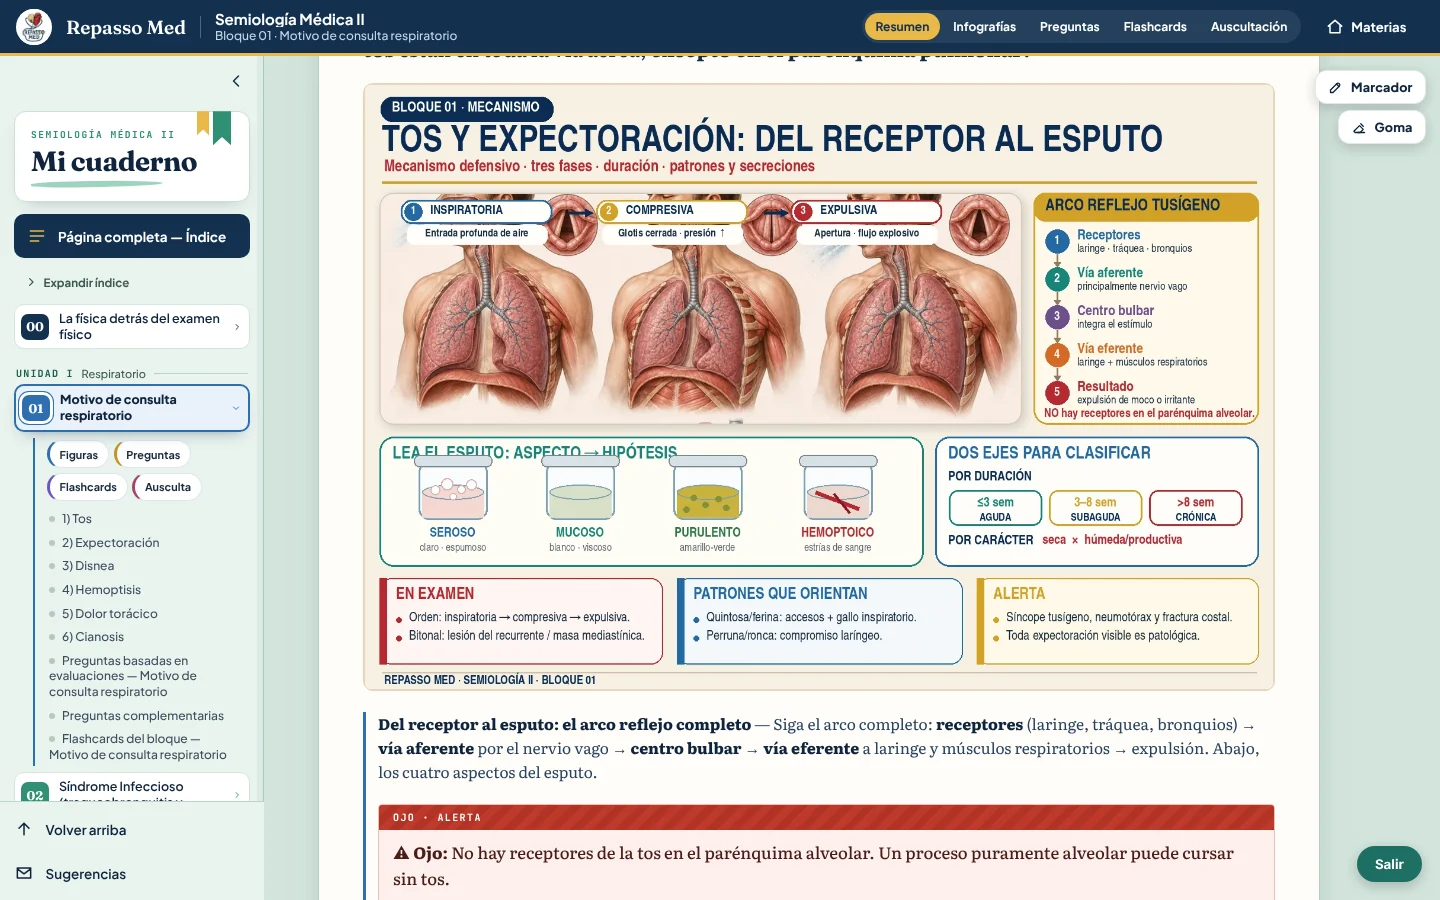
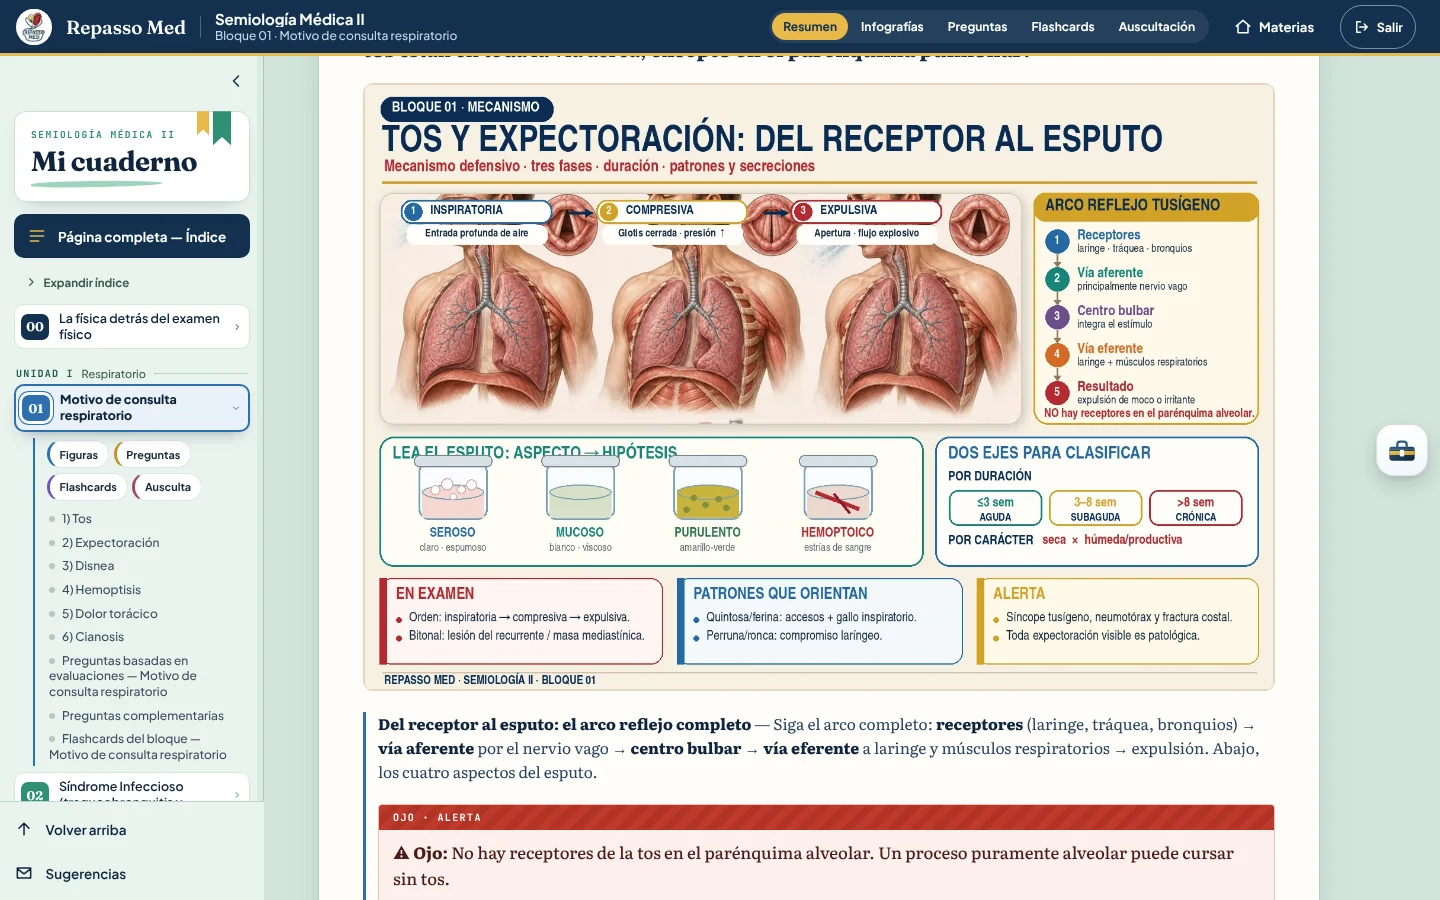
fix(semiologia-ii): «Sair» deixa de cobrir a leitura no piloto (vai para a faixa fixa)
- o botão flutuante verde (#logout-fab) fica oculto só com o tema ligado; o mesmo controle vive na faixa fixa (alvo ≥ 44 px, só ícone < 480 px) e delega o clique ao original
- espaço reservado ao fim da leitura; sem mudança fora do piloto
- testes: sistema.test.cjs 91 (§9–10: 320/390/768/1440, rolagem real, gaveta, caneta armada); capturas celular 390/320 + antes/depois
- docs: ativação = RM_PILOT_VISUAL_UIDS no Netlify, após o merge

Claude-Session: https://claude.ai/code/session_01JLPWR64NLJn2bckj9LWwJP

diff --git a/Repasso-Med-Site--main/Atual - Copia/assets/rm-materia-sistema.js b/Repasso-Med-Site--main/Atual - Copia/assets/rm-materia-sistema.js
@@ -373,6 +373,19 @@
     });
     band.insertBefore(pills, chip || q1(band, '.rm-l2-mat'));
     S.pills = pills;
+    /* «Sair»: o botão flutuante do site (#logout-fab, canto inferior direito) cobria a leitura no celular. No piloto ele fica oculto (CSS) e o MESMO
+       controle passa a viver na faixa fixa: este botão só delega o clique ao original (o handler de logout do site não muda). */
+    var fab = document.getElementById('logout-fab');
+    if (fab) {
+      var out = ui('button', 'rm-sis-out', { type: 'button', 'aria-label': 'Salir de la cuenta', title: 'Salir' });
+      var svg = document.createElementNS('http://www.w3.org/2000/svg', 'svg');
+      svg.setAttribute('viewBox', '0 0 24 24'); svg.setAttribute('width', '18'); svg.setAttribute('height', '18'); svg.setAttribute('fill', 'none');
+      svg.setAttribute('stroke', 'currentColor'); svg.setAttribute('stroke-width', '1.9'); svg.setAttribute('stroke-linecap', 'round'); svg.setAttribute('stroke-linejoin', 'round'); svg.setAttribute('aria-hidden', 'true');
+      var pth = document.createElementNS('http://www.w3.org/2000/svg', 'path'); pth.setAttribute('d', 'M10 5H5v14h5M15 8l4 4-4 4M19 12H9'); svg.appendChild(pth);
+      var lb = el('span'); lb.textContent = (fab.textContent || 'Sair').trim();
+      out.appendChild(svg); out.appendChild(lb);
+      band.appendChild(out);
+    }
     refletir();
   }
 
@@ -449,6 +462,8 @@
       if (sec) ir(sec.el);
       return;
     }
+    var so = t.closest('.rm-sis-out');
+    if (so) { var f = document.getElementById('logout-fab'); if (f) f.click(); return; }
     var p = t.closest('.rm-sis-pill');
     if (p) {
       var r = S.recursos[+p.getAttribute('data-rm-res')];

diff --git a/Repasso-Med-Site--main/Atual - Copia/assets/rm-materia-sistema.css b/Repasso-Med-Site--main/Atual - Copia/assets/rm-materia-sistema.css
@@ -194,6 +194,19 @@ html.rm-sis[data-rm-stuck] .rm-l2-band .rm-l2-logo { height: 36px; width: 36px; 
   html.rm-sis.rm-l2 .main-tabs { height: var(--rm-tabs-h); }
 }
 
+/* «Sair» (logout): o botão flutuante verde do site cobria texto, tabela e post-it no celular. No piloto ele sai do canto inferior e o mesmo controle
+   fica na faixa fixa (sempre visível, alvo ≥ 44 px, sem cobrir nada). O clique é delegado ao #logout-fab original (continua no DOM, só oculto). */
+html.rm-sis #logout-fab { display: none !important; }
+html.rm-sis .rm-sis-out {
+  display: inline-flex; align-items: center; justify-content: center; gap: 6px; flex: 0 0 auto; min-width: 44px; min-height: 44px; padding: 0 12px; margin-left: 2px;
+  border: 1.5px solid rgba(255, 255, 255, .45); border-radius: 99px; background: transparent; color: #fff; font: 700 12.5px var(--rm-f-ui); cursor: pointer;
+}
+html.rm-sis .rm-sis-out:hover { background: rgba(255, 255, 255, .14); }
+html.rm-sis .rm-l2-band button.rm-sis-out:focus-visible { outline: 3px solid var(--rm-gold); outline-offset: 2px; }
+@media (max-width: 479.98px) { html.rm-sis .rm-sis-out { padding: 0; width: 44px; } html.rm-sis .rm-sis-out span { display: none; } }
+/* espaço ao fim da leitura: a última linha nunca fica rente à borda da janela */
+html.rm-sis #materias-container { padding-bottom: calc(var(--rm-player-h, 0px) + var(--rm-safe-b, 0px) + 28px); }
+
 /* ---------------------------------------------------------------------
    6 · C-02 · índice lateral L1-COLOR (superfície mais clara da família do tema)
    --------------------------------------------------------------------- */

diff --git a/Repasso-Med-Site--main/Atual - Copia/SISTEMA-VISUAL-MATERIAS.md b/Repasso-Med-Site--main/Atual - Copia/SISTEMA-VISUAL-MATERIAS.md
@@ -11,8 +11,8 @@ Só a conta piloto, só em `semiologia-ii`. É uma CAMADA sobre o Layout V2:
 3. falha fechada: sem `visual`, erro de rede ou erro de `attach()` ⇒ nada do sistema entra (o layout fica como estava).
 
 **`visual` é negado por padrão.** Só vale para quem tem `layout` **e** está em `RM_PILOT_VISUAL_UIDS` (lista própria, obrigatória: variável
-ausente ou vazia ⇒ ninguém vê o tema; ele **não** herda a lista do layout). Para ativar: definir no Netlify
-`RM_PILOT_VISUAL_UIDS=<UID de José>` (o UID nunca entra no repositório). Kill switch só do tema: remover/esvaziar a variável (o Layout V2 continua).
+ausente ou vazia ⇒ ninguém vê o tema; ele **não** herda a lista do layout). Para ver o tema **depois do merge**: configurar no Netlify
+`RM_PILOT_VISUAL_UIDS=<UID de José>` (o UID nunca entra no repositório). Sem a variável, o tema fica desligado e o site/Layout V2 seguem como hoje. Kill switch só do tema: remover/esvaziar a variável (o Layout V2 continua).
 Teste: `tools/qa/browser-qa/layout/pilot-flags.test.cjs`.
 
 ## Arquivos
@@ -44,3 +44,8 @@ Preguntas = só dos blocos (o banco geral repete as mesmas: não se soma). Infog
 ## Contrato com o conteúdo
 Em conteúdo só entram atributos `data-rm-cap/-tipo/-cmp/-cc/-label/-n/-tema` e a classe `rm-sis-s` na aba (todos removidos no `detach`).
 Toda UI derivada leva `[data-rm-ui]` (fora do índice de marca-texto e das âncoras da tinta) e nunca cria `p/li/h1–h5/table/figure/blockquote`.
+
+## «Sair» (logout) no piloto
+O botão flutuante verde do site (`#logout-fab`, canto inferior direito) cobria a leitura no celular. No piloto ele fica oculto (CSS) e o mesmo controle
+passa a viver na faixa fixa (`.rm-sis-out`, alvo ≥ 44 px, só ícone abaixo de 480 px); o clique é **delegado** ao `#logout-fab` original, que continua no DOM.
+Fora do piloto nada muda. Teste: `sistema.test.cjs` §9–10 (320/390/768/1440, 6 paradas de rolagem, gaveta do índice, caneta armada).

diff --git a/tools/qa/browser-qa/layout/capturas-sistema/README.md b/tools/qa/browser-qa/layout/capturas-sistema/README.md
@@ -5,3 +5,4 @@ baixadas à parte só para a captura. A caixa «Marcador/Goma» flutuante é a t
 
 - `antes/` — abertura (início) como estava no HEAD d637ee5 (cabeçalho global + abas + faixa com 2 logos, ≈ 176 px).
 - `antes-depois_desktop-1440.webp` · `antes-depois_celular-390.webp` — antes × depois da entrada compacta (≈ 138 px, 1 logo; a faixa mostra a marca só quando gruda).
+- `antes-depois-sair/` — celular 390 e 320: o botão flutuante verde «Sair» cobria tabela, post-it e controles da caneta (ANTES, HEAD d72b750); agora o mesmo controle fica na faixa fixa (DEPOIS). Todas as capturas `celular-390_*` e `celular-320_*` são do estado final.
